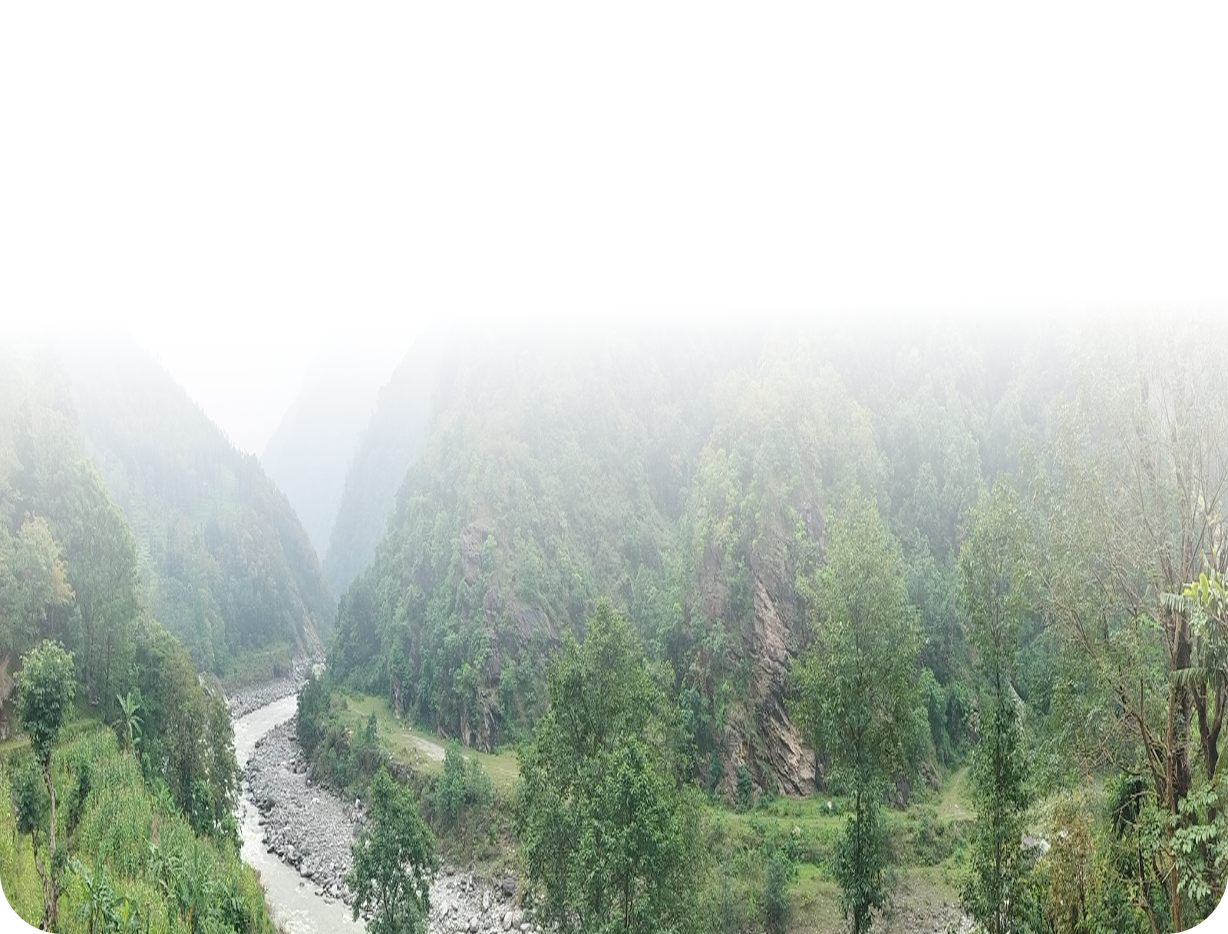
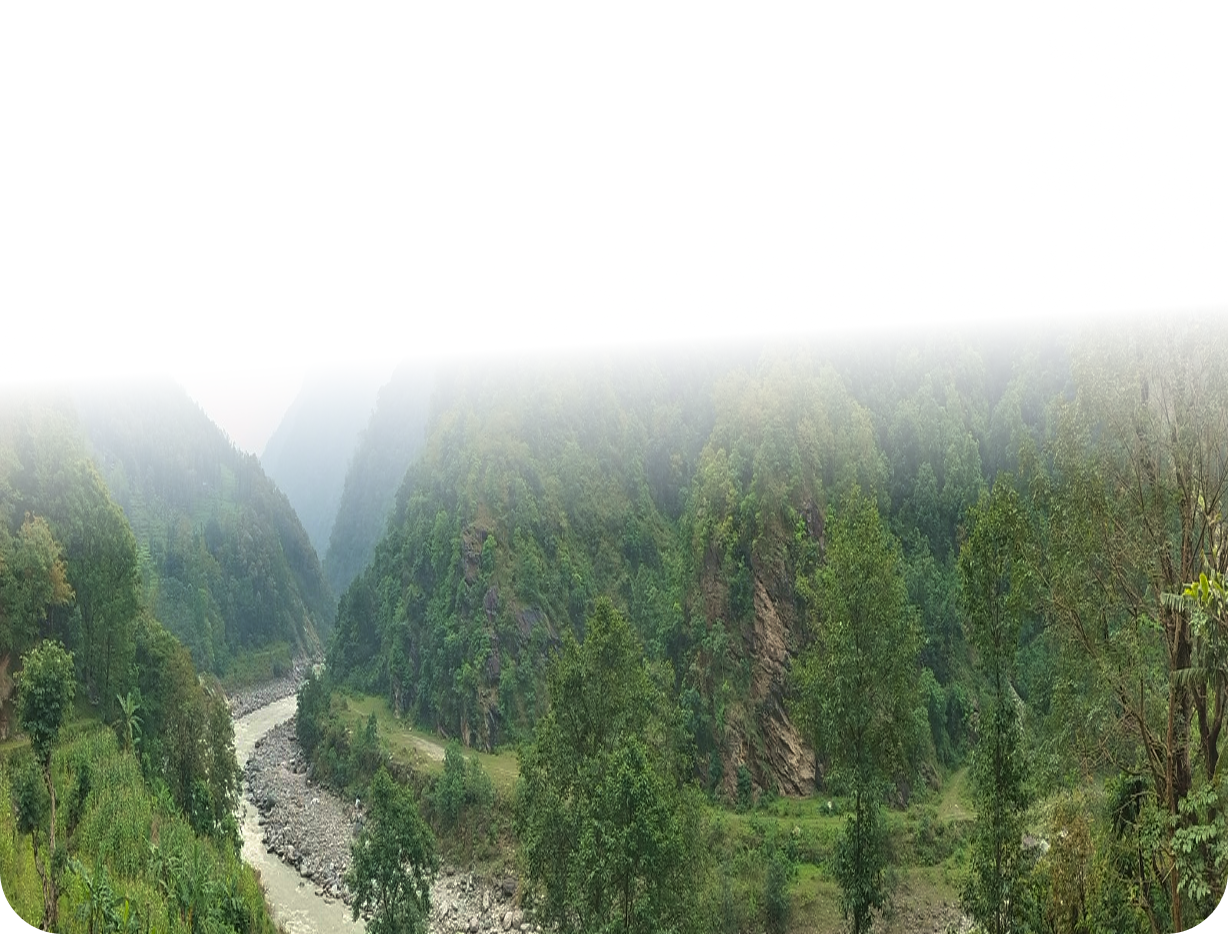
changes hero img, padding and size, glass effect, navbar font, aboutus title and subtitle font

diff --git a/frontend/src/pages/landing/Hero.jsx b/frontend/src/pages/landing/Hero.jsx
@@ -21,10 +21,10 @@ export default function HeroPage() {
         
         {/* Combined Hero Section (Image Frame holding the Text) */}
         <section className="">
-          <div className='max-w-[1440px] relative px-4 sm:px-8  mx-auto w-full pb-32'>
+          <div className='max-w-[1440px] relative px-4 sm:px-8  mx-auto w-full pb-0'>
           {/* Main Hero Container with Background Image */}
           <div 
-            className="relative w-full min-h-[500px] lg:min-h-[700px] md:min-h-[700px] heroParentStyled overflow-hidden bg-cover bg-center flex flex-col items-center pt-16 px-4 md:px-8 "
+            className="relative w-full min-h-[500px] lg:min-h-[900px] md:min-h-[900px] heroParentStyled overflow-hidden bg-cover bg-center flex flex-col items-center pt-16 px-4 md:px-8 "
             style={{
               backgroundImage: `url('/landing/realImage/1_fog.png')`  
             }}
@@ -53,7 +53,7 @@ export default function HeroPage() {
 
 
               {/* Subtext Paragraph */}
-              <p className="mt-6 text-xl hidden lg:flex text-[var(--primaryTextColorLanding)] font-medium leading-relaxed max-w-4xl mx-auto px-4">
+              <p className="mt-6 hidden lg:flex text-[20px] text-[var(--primaryTextColorLanding)] font-['Hind'] font-normal leading-[1.6] max-w-4xl mx-auto px-4">
                 Dudhkhoshi Hydropower Nepal Pvt. Ltd. is driving Nepal’s clean energy future. Committed to meeting the country’s 
                 expanding power demands, we build sustainable, reliable hydropower solutions rooted in our foundational vision to 
                 harness the nation’s incredible water resources.
@@ -61,7 +61,8 @@ export default function HeroPage() {
 
               {/* Call To Action Button */}
               <div className="mt-8">
-                <button className="inline-flex items-center gap-3 bg-[var(--lightWhite)] text-[var(--primaryTextColorLanding2)] font-bold text-sm py-2 px-6 rounded-full border border-gray-200/80 shadow-md hover:shadow-lg hover:border-gray-300 transition-all duration-200">
+                <button className="inline-flex items-center gap-3 bg-[var(--lightWhite)] text-[var(--primaryTextColorLanding2)] font-['Manrope'] font-medium text-[16px] leading-6 tracking-normal text-center align-middle py-2 px-6 rounded-full border border-gray-200/80 shadow-md hover:shadow-lg hover:border-gray-300 transition-all duration-200">
+
                   Get in touch
                   <span className="w-6 h-6 rounded-full bg-[var(--landingPagePrimaryColor)] flex items-center justify-center text-[var(--lightWhite)]">
                     <HiArrowRight className="w-3.5 h-3.5" />
@@ -73,10 +74,10 @@ export default function HeroPage() {
           </div>
 
           {/* Overlapping Glass Cards Grid (Positioned absolutely over the bottom boundary) */}
-          <div className="absolute -bottom-[55px] lg:-bottom-[40px] left-0 right-0 max-w-6xl mx-auto px-6 grid grid-cols-1 lg:grid-cols-[3fr_2fr_1fr] gap-6 z-20">
+          <div className="absolute -bottom-[40px] lg:-bottom-[40px] left-0 right-0 max-w-6xl mx-auto px-6 grid grid-cols-1 lg:grid-cols-[3fr_2fr_1fr] gap-6 z-20">
             
             {/* Card 1: Solukhumbu Project */}
-            <div className="bg-[var(--lightWhite)]/5 backdrop-blur-sm rounded-3xl gap-[12px] p-4 border border-white/40 shadow-xl flex flex-row items-center justify-center ">
+            <div className="bg-[#ffffff95] backdrop-blur-[2px] rounded-3xl gap-[12px] p-4 border-[2px] border-white/95 shadow-xl flex flex-row items-center justify-center ">
               <div className="relative w-full h-36 rounded-2xl overflow-hidden">
                 <Image 
                   src={heroBottom1} 
@@ -88,30 +89,30 @@ export default function HeroPage() {
               <div className="flex flex-col items-center justify-center gap-[28px]">
                 <div>
                                   {/* Location Badge */}
-                <span className="bg-[var(--lightWhite)] text-[var(--textColorOnLightBg)] text-[10px] font-bold tracking-wider uppercase px-2.5 py-1 rounded-full flex items-center gap-1">
+                <span className="bg-[var(--lightWhite)] text-[var(--textColorOnLightBg)] font-['Manrope'] font-bold text-[12px] leading-[20px] tracking-[2px] uppercase px-2.5 py-1 rounded-full flex items-center gap-1">
                   <HiLocationMarker className="text-[var(--primaryTextColorLanding)] text-[16px]" /> SOLUKHUMBU
                 </span>
                 </div>
 <div>
-                  <h4 className="text-[var(--landingPagePrimaryColor)] font-bold text-sm">Dudhkhoshi-2</h4>
-                <p className="text-[var(--primaryTextColorLanding2)] font-semibold text-xs mt-0.5">hydropower project</p>
+                  <h4 className="text-[var(--primaryTextColorLanding3)] font-['Hind'] font-bold text-[14px] leading-[20px] tracking-[0px] align-left">Dudhkhoshi-2</h4>
+                <p className="text-[var(--primaryTextColorLanding2)] font-['Hind'] font-bold text-[14px] leading-[20px] tracking-[0px] align-middle mt-0.5">hydropower project</p>
 </div>
               </div>
             </div>
 
             {/* Card 2: Technical Description */}
-            <div className="bg-[#ffffff91] backdrop-blur-md rounded-3xl p-6 border border-white/40 shadow-xl hidden lg:flex flex-col justify-between min-h-[220px]">
-              <p className="text-[var(--textColorOnLightBg)] text-lg leading-relaxed font-medium">
+            <div className="bg-[#ffffff95] backdrop-blur-[2px] rounded-3xl p-6 border-[2px] border-white/95 shadow-xl hidden lg:flex flex-col justify-center min-h-[220px]">
+              <p className="text-[var(--textColorOnLightBg)] text-[14px] leading-relaxed font-medium">
                 High-efficiency PRoR design ensuring 6 hours of peak power, even during dry seasons.
               </p>
               <div className="mt-6">
-                <h4 className="text-[var(--landingPagePrimaryColor)] font-bold text-sm">PRoR</h4>
-                <p className="text-[var(--primaryTextColorLanding2)] font-semibold text-xs mt-0.5">optimized project</p>
+                <h4 className="text-[var(--primaryTextColorLanding3)] font-bold text-[14px]">PRoR</h4>
+                <p className="text-[var(--primaryTextColorLanding2)] font-semibold text-[14px] mt-0.5">optimized project</p>
               </div>
             </div>
 
             {/* Card 3: Capacity Details */}
-            <div className="bg-[var(--lightWhite)]/5 backdrop-blur-sm rounded-3xl p-4 border border-white/40 shadow-xl hidden lg:flex flex-col gap-12">
+            <div className="bg-[#ffffff95] backdrop-blur-[2px] rounded-3xl p-4 border-[2px] border-white/95 shadow-xl hidden lg:flex flex-col gap-12">
               <div className="relative w-[133px] h-[82px] rounded-2xl overflow-hidden">
                 <Image 
                   src={heroCardImg2} 
@@ -124,9 +125,9 @@ export default function HeroPage() {
 
               </div>
               <div>
-                <p className="text-[var(--primaryTextColorLanding2)] text-[11px] font-semibold">Total Capacity</p>
-                <h4 className="text-[var(--landingPagePrimaryColor)] font-extrabold text-base mt-0.5">
-                  95.7 <span className="text-[var(--textColorOnLightBg)] text-xs font-semibold ml-0.5">MW</span>
+                <p className="text-[var(--primaryTextColorLanding2)] text-[14px] font-semibold">Total Capacity</p>
+                <h4 className="text-[var(--primaryTextColorLanding3)] font-extrabold text-base text-[14px] mt-0.5">
+                  95.7 <span className="text-[var(--primaryTextColorLanding2)] text-[14px] font-semibold ml-0.5">MW</span>
                 </h4>
               </div>
             </div>

diff --git a/frontend/src/pages/landing/navAndFooter/Nav.jsx b/frontend/src/pages/landing/navAndFooter/Nav.jsx
@@ -15,25 +15,25 @@ export default function Navbar() {
         {/* Logo */}
         <Link href="/" className="flex items-center gap-2">
           <div className="w-12 h-12 relative flex items-center justify-center rounded-full bg-slate-50 shadow-sm border border-slate-100">
-            <Image src={logo} width={32} height={32} unoptimized className="text-xs font-bold text-[var(--landingPagePrimaryColor)]" alt='logo'></Image>
+            <Image src={logo} fill unoptimized className="text-xs font-bold text-[var(--landingPagePrimaryColor)]" alt='logo'></Image>
           </div>
         </Link>
 
         {/* Desktop Navigation */}
         <nav className="hidden md:flex items-center gap-10">
-          <Link href="/" className="text-[var(--textColorOnLightBg)] hover:text-[var(--landingPagePrimaryColor)] font-medium text-[15px] transition-colors">
+          <Link href="/" className="text-[var(--textColorOnLightBg)] hover:text-[var(--landingPagePrimaryColor)] font-['Manrope'] font-medium text-[16px] leading-[26px] tracking-[0px] align-middle transition-colors">
             Home
           </Link>
-          <Link href="#aboutUs" className="text-[var(--textColorOnLightBg)] hover:text-[var(--landingPagePrimaryColor)] font-medium text-[15px] transition-colors">
+          <Link href="#aboutUs" className="text-[var(--textColorOnLightBg)] hover:text-[var(--landingPagePrimaryColor)] font-['Manrope'] font-medium text-[16px] leading-[26px] tracking-[0px] align-middle transition-colors">
             About Us
           </Link>
-          <Link href="#gallery" className="text-[var(--textColorOnLightBg)] hover:text-[var(--landingPagePrimaryColor)] font-medium text-[15px] transition-colors">
+          <Link href="#gallery" className="text-[var(--textColorOnLightBg)] hover:text-[var(--landingPagePrimaryColor)] font-['Manrope'] font-medium text-[16px] leading-[26px] tracking-[0px] align-middle transition-colors">
             Gallery
           </Link>
-          <Link href="#team" className="text-[var(--textColorOnLightBg)] hover:text-[var(--landingPagePrimaryColor)] font-medium text-[15px] transition-colors">
+          <Link href="#team" className="text-[var(--textColorOnLightBg)] hover:text-[var(--landingPagePrimaryColor)] font-['Manrope'] font-medium text-[16px] leading-[26px] tracking-[0px] align-middle transition-colors">
             Our Team
           </Link>
-          <Link href="#projectOverview" className="text-[var(--textColorOnLightBg)] hover:text-[var(--landingPagePrimaryColor)] font-medium text-[15px] transition-colors">
+          <Link href="#projectOverview" className="text-[var(--textColorOnLightBg)] hover:text-[var(--landingPagePrimaryColor)] font-['Manrope'] font-medium text-[16px] leading-[26px] tracking-[0px] align-middle transition-colors">
             Project Overview
           </Link>
         </nav>
@@ -43,13 +43,13 @@ export default function Navbar() {
           <Link 
           
             href="#contact" 
-            className="px-6 py-2.5 bg-[var(--landingPagePrimaryColor)] hover:opacity-90 text-[var(--lightWhite)] font-medium text-sm rounded-full transition-all duration-200 shadow-sm hover:shadow-md"
+            className="px-6 py-2.5 bg-[var(--landingPagePrimaryColor)] hover:opacity-90 text-[var(--lightWhite)] font-['Manrope'] font-semibold text-[16px] leading-[24px] tracking-[0px] text-center align-middle rounded-full transition-all duration-200 shadow-sm hover:shadow-md"
           >
             Contact Us
           </Link>
           <Link 
             href="/login" 
-            className="px-6 py-2.5 bg-[var(--landingPagePrimaryColor)] hover:opacity-90 text-[var(--lightWhite)] font-medium text-sm rounded-full transition-all duration-200 shadow-sm hover:shadow-md"
+            className="px-6 py-2.5 bg-[var(--landingPagePrimaryColor)] hover:opacity-90 text-[var(--lightWhite)] font-['Manrope'] font-semibold text-[16px] leading-[24px] tracking-[0px] text-center align-middle rounded-full transition-all duration-200 shadow-sm hover:shadow-md"
           >
             Login
           </Link>

diff --git a/frontend/src/pages/landing/components/StyledSubHeadingWithPill.jsx b/frontend/src/pages/landing/components/StyledSubHeadingWithPill.jsx
@@ -1,21 +1,21 @@
 import React from 'react'
 
-const StyledSubHeadingWithPill = ({text}) => {
-  return (
-                   <div className="flex items-center justify-center gap-4 mb-6">
-                <div className="hidden sm:flex items-center">
-                  <span className="h-[2px] w-[260px] bg-gradient-to-r from-transparent to-[#004cb9]/40"></span>
-                  <span className="w-2.5 h-2.5 rounded-full bg-[var(--landingPagePrimaryColor)]"></span>
-                </div>
-                    <span className="border font-title border-[var(--landingPagePrimaryColor)] text-[var(--landingPagePrimaryColor)] text-xs font-semibold px-4 py-1.5 rounded-full bg-white shadow-xs">
-              {text}
-            </span>
-                <div className="hidden sm:flex items-center">
-                  <span className="w-2.5 h-2.5 rounded-full bg-[var(--landingPagePrimaryColor)]"></span>
-                  <span className="h-[2px] w-[260px] bg-gradient-to-l from-transparent to-[#004cb9]/40"></span>
-                </div>
-              </div>
-  )
-}
+const StyledSubHeadingWithPill = ({ text }) => (
+  <div className="flex items-center justify-center gap-4 mb-6">
+    <div className="hidden sm:flex items-center">
+      <span className="h-[2px] w-[260px] bg-gradient-to-r from-transparent to-[#004cb9]/40" />
+      <span className="w-2.5 h-2.5 rounded-full bg-[var(--landingPagePrimaryColor)]" />
+    </div>
+
+    <span className="border border-[var(--landingPagePrimaryColor)] text-[var(--landingPagePrimaryColor)] font-['Manrope'] font-medium text-[16px] leading-[20px] tracking-[0px] align-middle capitalize px-4 py-1.5 rounded-full bg-white shadow-xs">
+      {text}
+    </span>
+
+    <div className="hidden sm:flex items-center">
+      <span className="w-2.5 h-2.5 rounded-full bg-[var(--landingPagePrimaryColor)]" />
+      <span className="h-[2px] w-[260px] bg-gradient-to-l from-transparent to-[#004cb9]/40" />
+    </div>
+  </div>
+);
 
 export default StyledSubHeadingWithPill

diff --git a/frontend/src/pages/landing/components/HrLineWithHeadingText.jsx b/frontend/src/pages/landing/components/HrLineWithHeadingText.jsx
@@ -8,23 +8,24 @@ const HrLineWithHeadingText = ({text}) => {
   return (
              <span className="
                 relative
-        inline-block
-        text-[11px]
-      font-semibold
-        tracking-widest
-        text-[var(--landingPagePrimaryColor)]
-        font-title
-        uppercase
-        pb-2
-        mb-6
-        after:absolute
-        after:left-0
-        after:bottom-0
-        after:w-[51px]
-        after:h-[2px]
-        after:bg-[var(--halfBorderColor)]
-        after:opacity-40
-             ">
+                inline-block
+                font-['Manrope']
+                font-medium
+                text-[12px]
+                leading-[20px]
+                tracking-[2px]
+                text-[var(--landingPagePrimaryColor)]
+                uppercase
+                pb-2
+                mb-6
+                after:absolute
+                after:left-0
+                after:bottom-0
+                after:w-[51px]
+                after:h-[2px]
+                after:bg-[var(--halfBorderColor)]
+                after:opacity-40
+              ">
               {text}
               </span>
 

diff --git a/frontend/src/pages/landing/about/TechnicalSpecification.jsx b/frontend/src/pages/landing/about/TechnicalSpecification.jsx
@@ -46,12 +46,12 @@ export default function TechnicalSpecification() {
           <StyledSubHeadingWithPill text="About us"></StyledSubHeadingWithPill>
 
           {/* Main Title */}
-          <h2 className="text-3xl md:text-4xl font-extrabold text-[var(--landingPageColorPrimary2)] tracking-tight leading-tight mb-4">
+          <h2 className="font-['Manrope'] font-bold text-[32px] leading-[44px] tracking-[0%] text-center capitalize text-[var(--landingPageColorPrimary2)] mb-4">
             Empowering Nepal With <br className="hidden sm:inline" /> Clean Hydropower Solutions
           </h2>
 
           {/* Subtitle */}
-          <p className="text-sm md:text-base text-[var(--textColorOnLightBg)] leading-relaxed">
+          <p className="font-['Hind'] font-normal text-[20px] leading-[32px] tracking-[0%] text-center text-[var(--textColorOnLightBg)]">
             Dudhkhoshi Hydropower Nepal Pvt. Ltd. operates the Dudhkhoshi-2 (Jaleshwor) project a 95.7 MW optimized facility engineered for the highest efficiency and reliability.
           </p>
         </div>

diff --git a/frontend/src/pages/landing/team/Team.jsx b/frontend/src/pages/landing/team/Team.jsx
@@ -155,12 +155,12 @@ export default function TeamSection() {
           <StyledSubHeadingWithPill text="Meet our Team"></StyledSubHeadingWithPill>
 
           {/* Main Title */}
-          <h2 className="text-3xl md:text-4xl font-extrabold text-[var(--landingPageColorPrimary2)] tracking-tight leading-tight mb-4">
+          <h2 className="font-['Manrope'] font-bold text-[32px] leading-[44px] tracking-[0%] text-center capitalize text-[var(--landingPageColorPrimary2)] mb-4">
           Meet our team behind our success
           </h2>
 
           {/* Subtitle */}
-          <p className="text-sm md:text-base text-[var(--textColorOnLightBg)] leading-relaxed">
+          <p className="font-['Hind'] font-normal text-[20px] leading-[32px] tracking-[0%] text-center text-[var(--textColorOnLightBg)]">
     Meet the multi-disciplinary team of engineers, environmental scientists, and strategic investors driving the 95.7 MW Dudhkoshi vision toward sustainable energy independence.
           </p>
         </div>

diff --git a/frontend/src/pages/landing/blog/page.jsx b/frontend/src/pages/landing/blog/page.jsx
@@ -65,12 +65,12 @@ export default function NewsEventsSection() {
           <StyledSubHeadingWithPill text="News And Events"></StyledSubHeadingWithPill>
 
           {/* Main Title */}
-          <h2 className="text-3xl md:text-4xl font-extrabold text-[var(--landingPageColorPrimary2)] tracking-tight leading-tight mb-4">
+          <h2 className="font-['Manrope'] font-bold text-[32px] leading-[44px] tracking-[0%] text-center capitalize text-[var(--landingPageColorPrimary2)] mb-4">
          Recent Updates and milestones
           </h2>
 
           {/* Subtitle */}
-          <p className="text-sm md:text-base text-[var(--textColorOnLightBg)] leading-relaxed">
+          <p className="font-['Hind'] font-normal text-[20px] leading-[32px] tracking-[0%] text-center text-[var(--textColorOnLightBg)]">
 Meet the multi-disciplinary team of engineers, environmental scientists, and strategic investors driving the 95.7 MW Dudhkoshi vision toward sustainable energy independence.
           </p>
         </div>

diff --git a/frontend/src/pages/landing/projectOverview/page.jsx b/frontend/src/pages/landing/projectOverview/page.jsx
@@ -109,12 +109,12 @@ const specsData = {
           <StyledSubHeadingWithPill text="Project Overview"></StyledSubHeadingWithPill>
 
           {/* Main Title */}
-          <h2 className="text-3xl md:text-4xl font-extrabold text-[var(--landingPageColorPrimary2)] tracking-tight leading-tight mb-4">
+          <h2 className="font-['Manrope'] font-bold text-[32px] leading-[44px] tracking-[0%] text-center capitalize text-[var(--landingPageColorPrimary2)] mb-4">
 Project Overview
           </h2>
 
           {/* Subtitle */}
-          <p className="text-sm md:text-base text-[var(--textColorOnLightBg)] leading-relaxed">
+          <p className="font-['Hind'] font-normal text-[20px] leading-[32px] tracking-[0%] text-center text-[var(--textColorOnLightBg)]">
 Engineering design data and technical specifications for the Dudhkoshi-2 
 Run-of-River Hydroelectric Scheme.
           </p>

diff --git a/frontend/src/pages/landing/gallery/GalleryClient.jsx b/frontend/src/pages/landing/gallery/GalleryClient.jsx
@@ -45,7 +45,7 @@ export default  function GalleryClient({ initialGallery }) {
           <StyledSubHeadingWithPill text="Gallery"></StyledSubHeadingWithPill>
 
           {/* Main Title */}
-          <h2 className="text-3xl md:text-4xl font-extrabold text-[var(--landingPageColorPrimary2)] tracking-tight leading-tight mb-4">
+          <h2 className="font-['Manrope'] font-bold text-[32px] leading-[100%] tracking-[0%] text-center capitalize text-[var(--landingPageColorPrimary2)] mb-4">
           Our Visual Journal
           </h2>
 

diff --git a/frontend/src/app/globals.css b/frontend/src/app/globals.css
@@ -31,7 +31,6 @@
 
 
 
-
 --notFoundTextColor:#475569;
   /* -------- */
   --adminPrimaryColor : #8200db;
@@ -58,7 +57,7 @@
   --hightlightText:#F59E0B;
   --primaryTextColorLanding:#45484D;
   --primaryTextColorLanding2:#565A4A;
-
+  --primaryTextColorLanding3:#186596;
   --landingPageColorPrimary2:#175F8C;
   --halfBorderColor:#186596;
 
@@ -125,7 +124,7 @@ content: "";
   position: absolute;
   left: 40px;
   right: 40px;
-  bottom: -30px;
+  bottom: 79px;
   height: 30px;
   background: #DDF2FF;
   filter: blur(25px);
